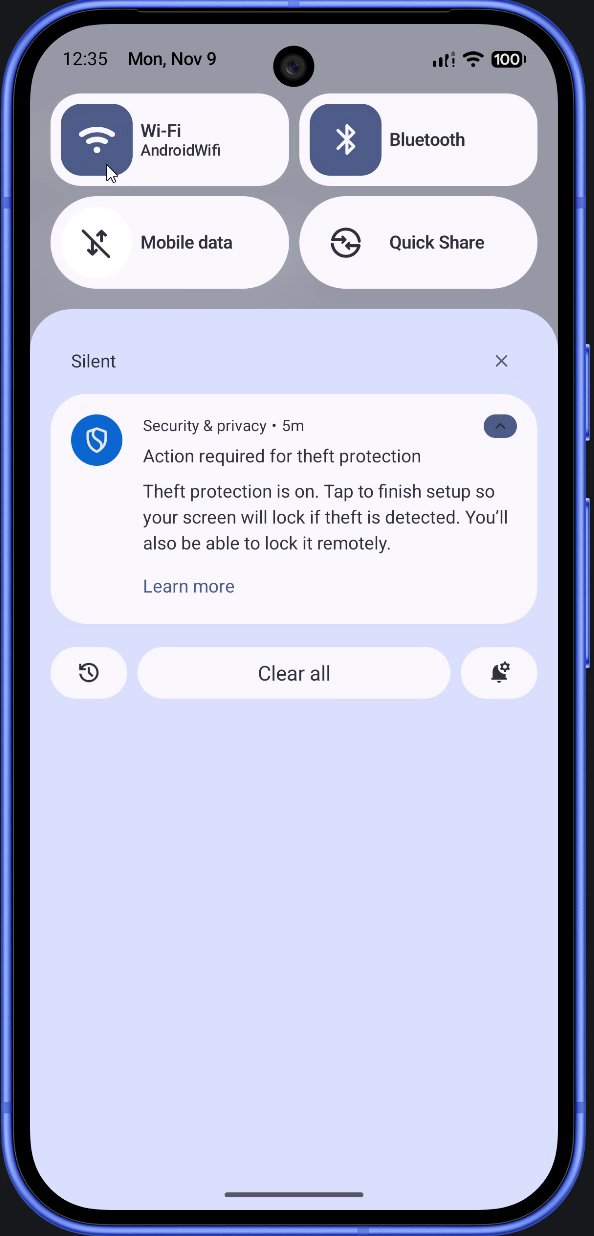
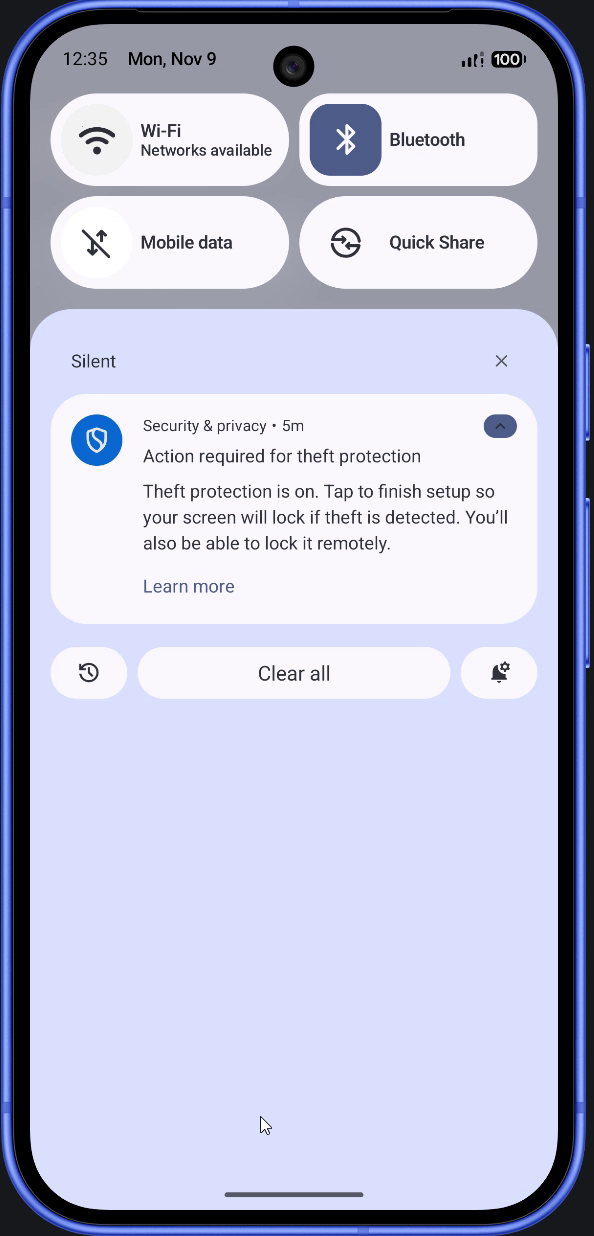
Readme,Capturas corregidas

diff --git a/README.md b/README.md
@@ -170,6 +170,6 @@ Contenido real de `shared_prefs/prefs.xml` en el dispositivo: [03_prefs_xml_en_d
 |---|---|---|
 | ![](docs/evidencias/12_room_agregado_a_favoritos.png) | ![](docs/evidencias/13_room_lista_favoritos.png) | ![](docs/evidencias/14_room_favorito_eliminado.png) |
 
-| Wi-Fi desactivado | Favoritos sin conexión | Detalle sin conexión (copia en Room) |
-|---|---|---|
-| ![](docs/evidencias/15_room_modo_sin_red_activado.png) | ![](docs/evidencias/16_room_favoritos_sin_conexion.png) | ![](docs/evidencias/17_room_detalle_offline_copia_guardada.png) |
+| Wi-Fi desactivado | Catálogo sin conexión (aviso) | Favoritos sin conexión | Detalle sin conexión (copia en Room) |
+|---|---|---|---|
+| ![](docs/evidencias/15_room_modo_sin_red_activado.png) | ![](docs/evidencias/15b_room_catalogo_sin_conexion_toast.png) | ![](docs/evidencias/16_room_favoritos_sin_conexion.png) | ![](docs/evidencias/17_room_detalle_offline_copia_guardada.png) |
